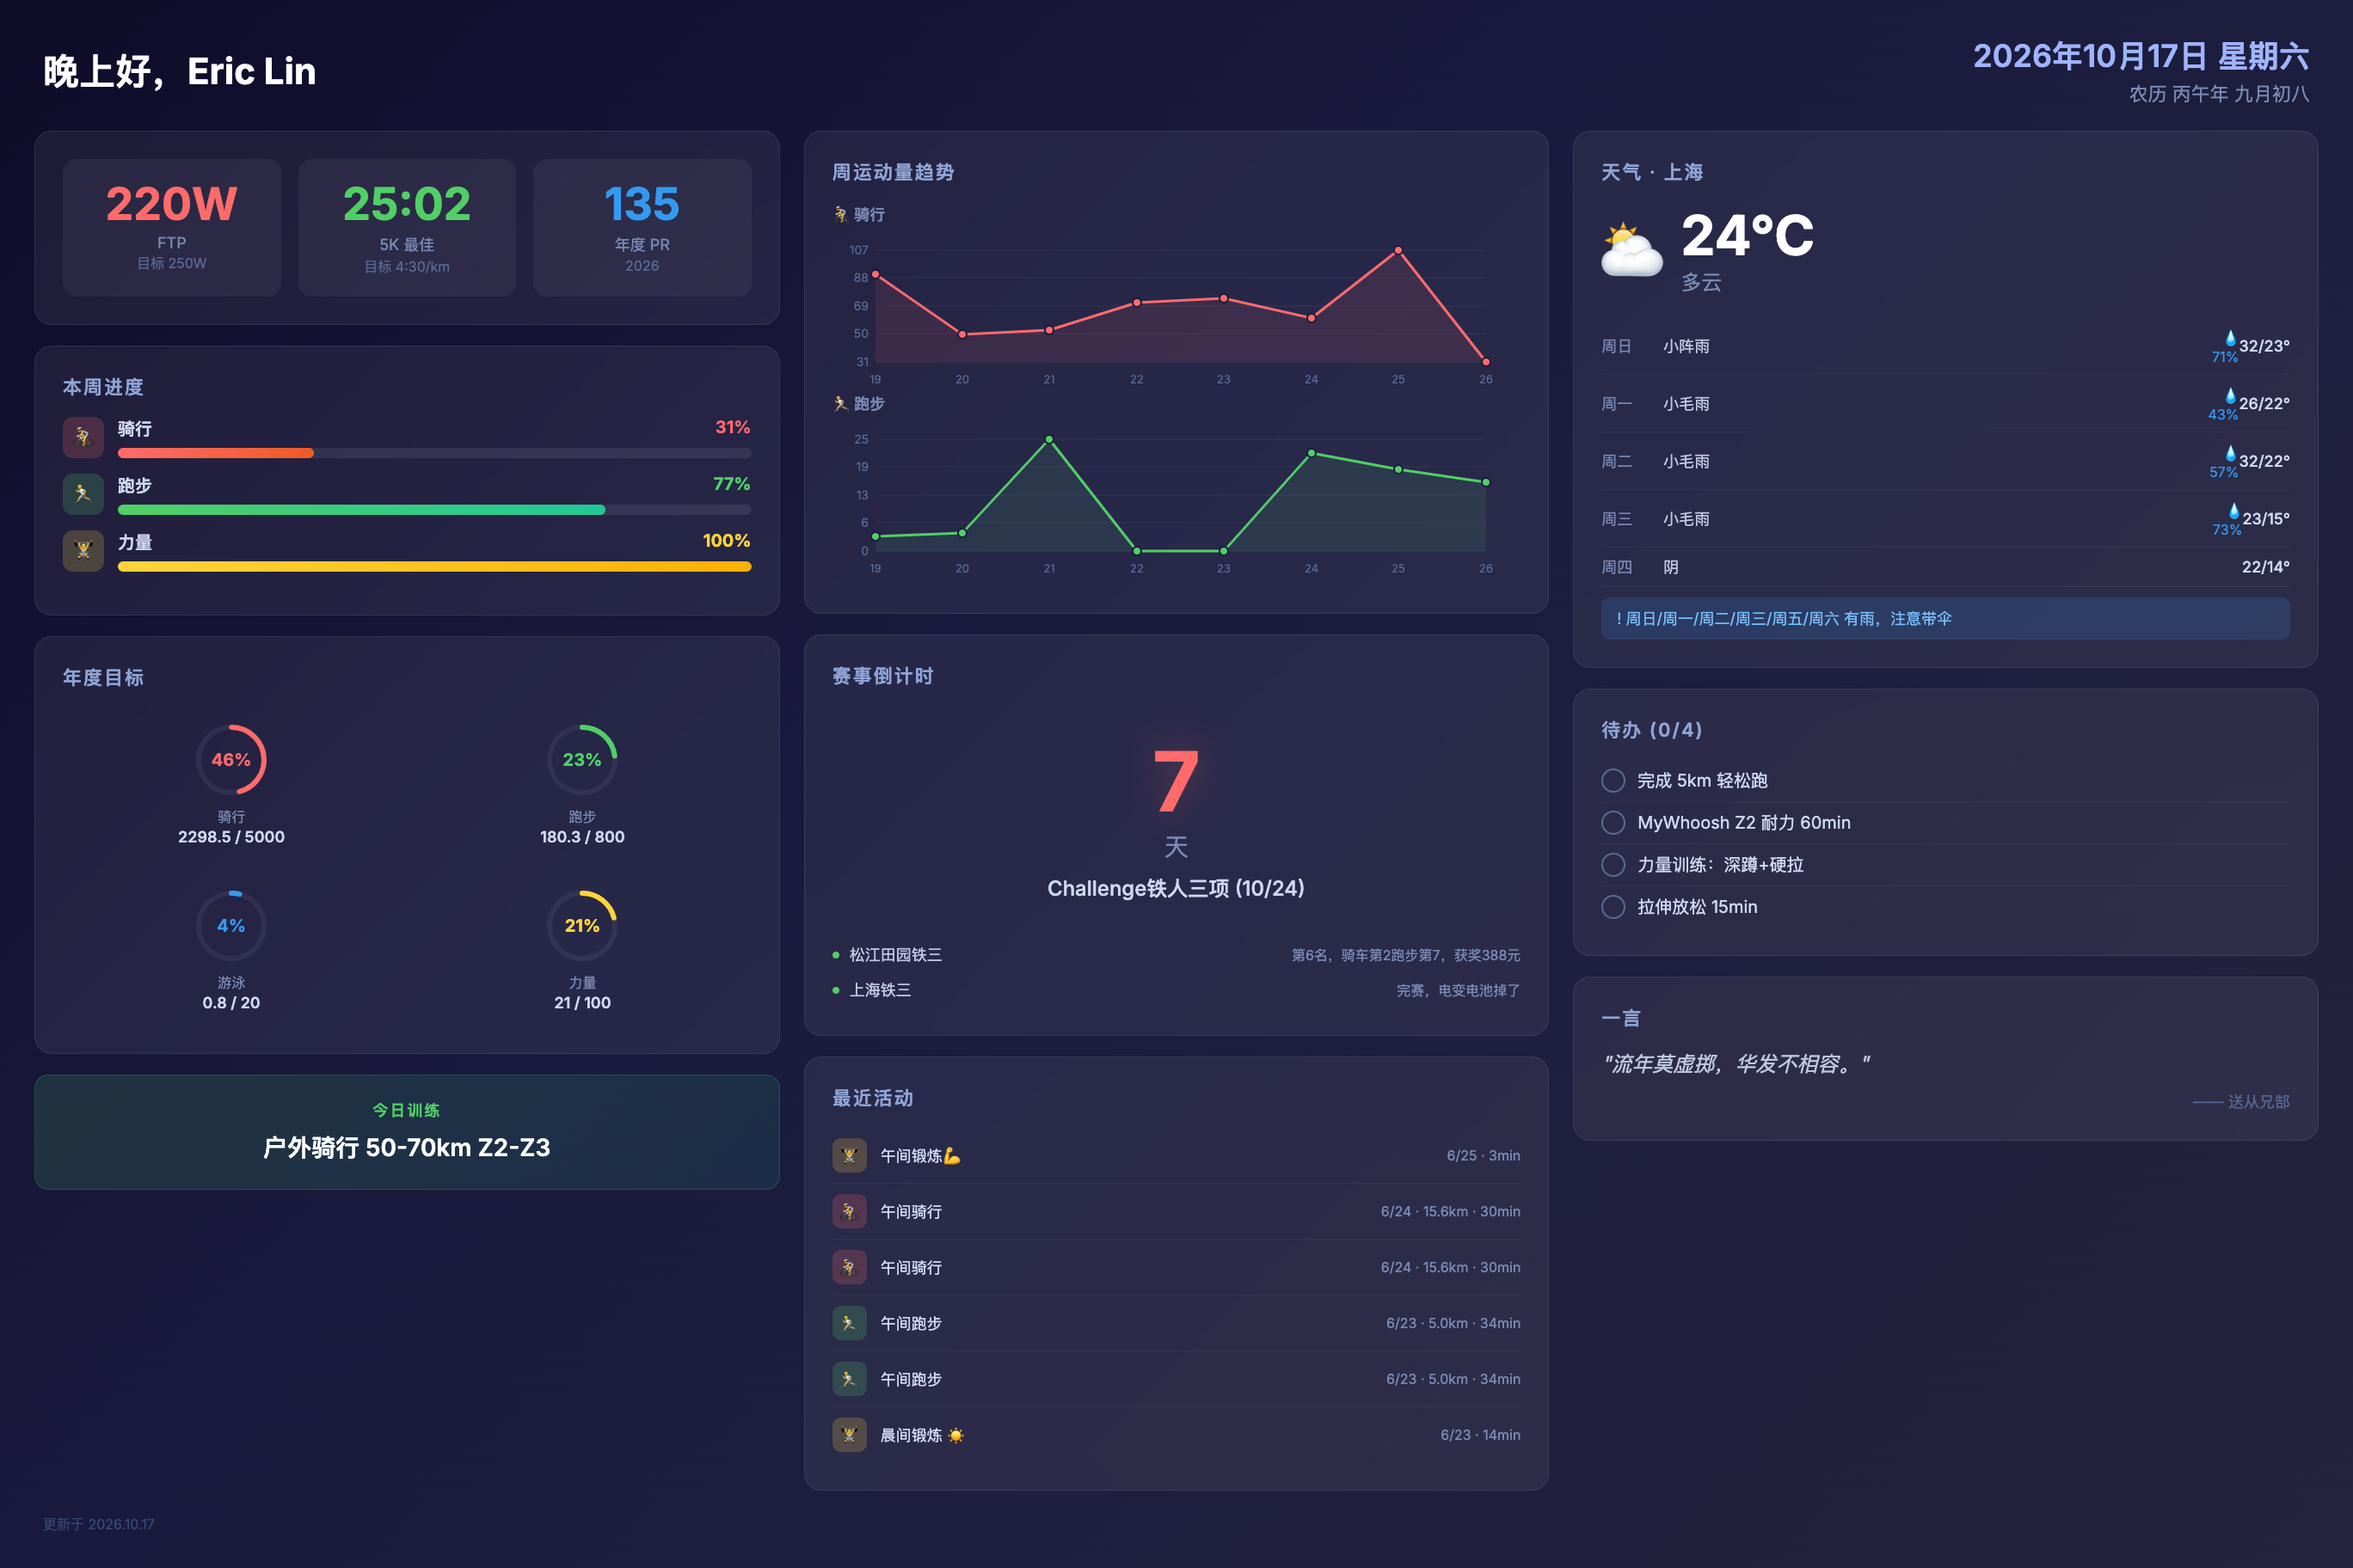
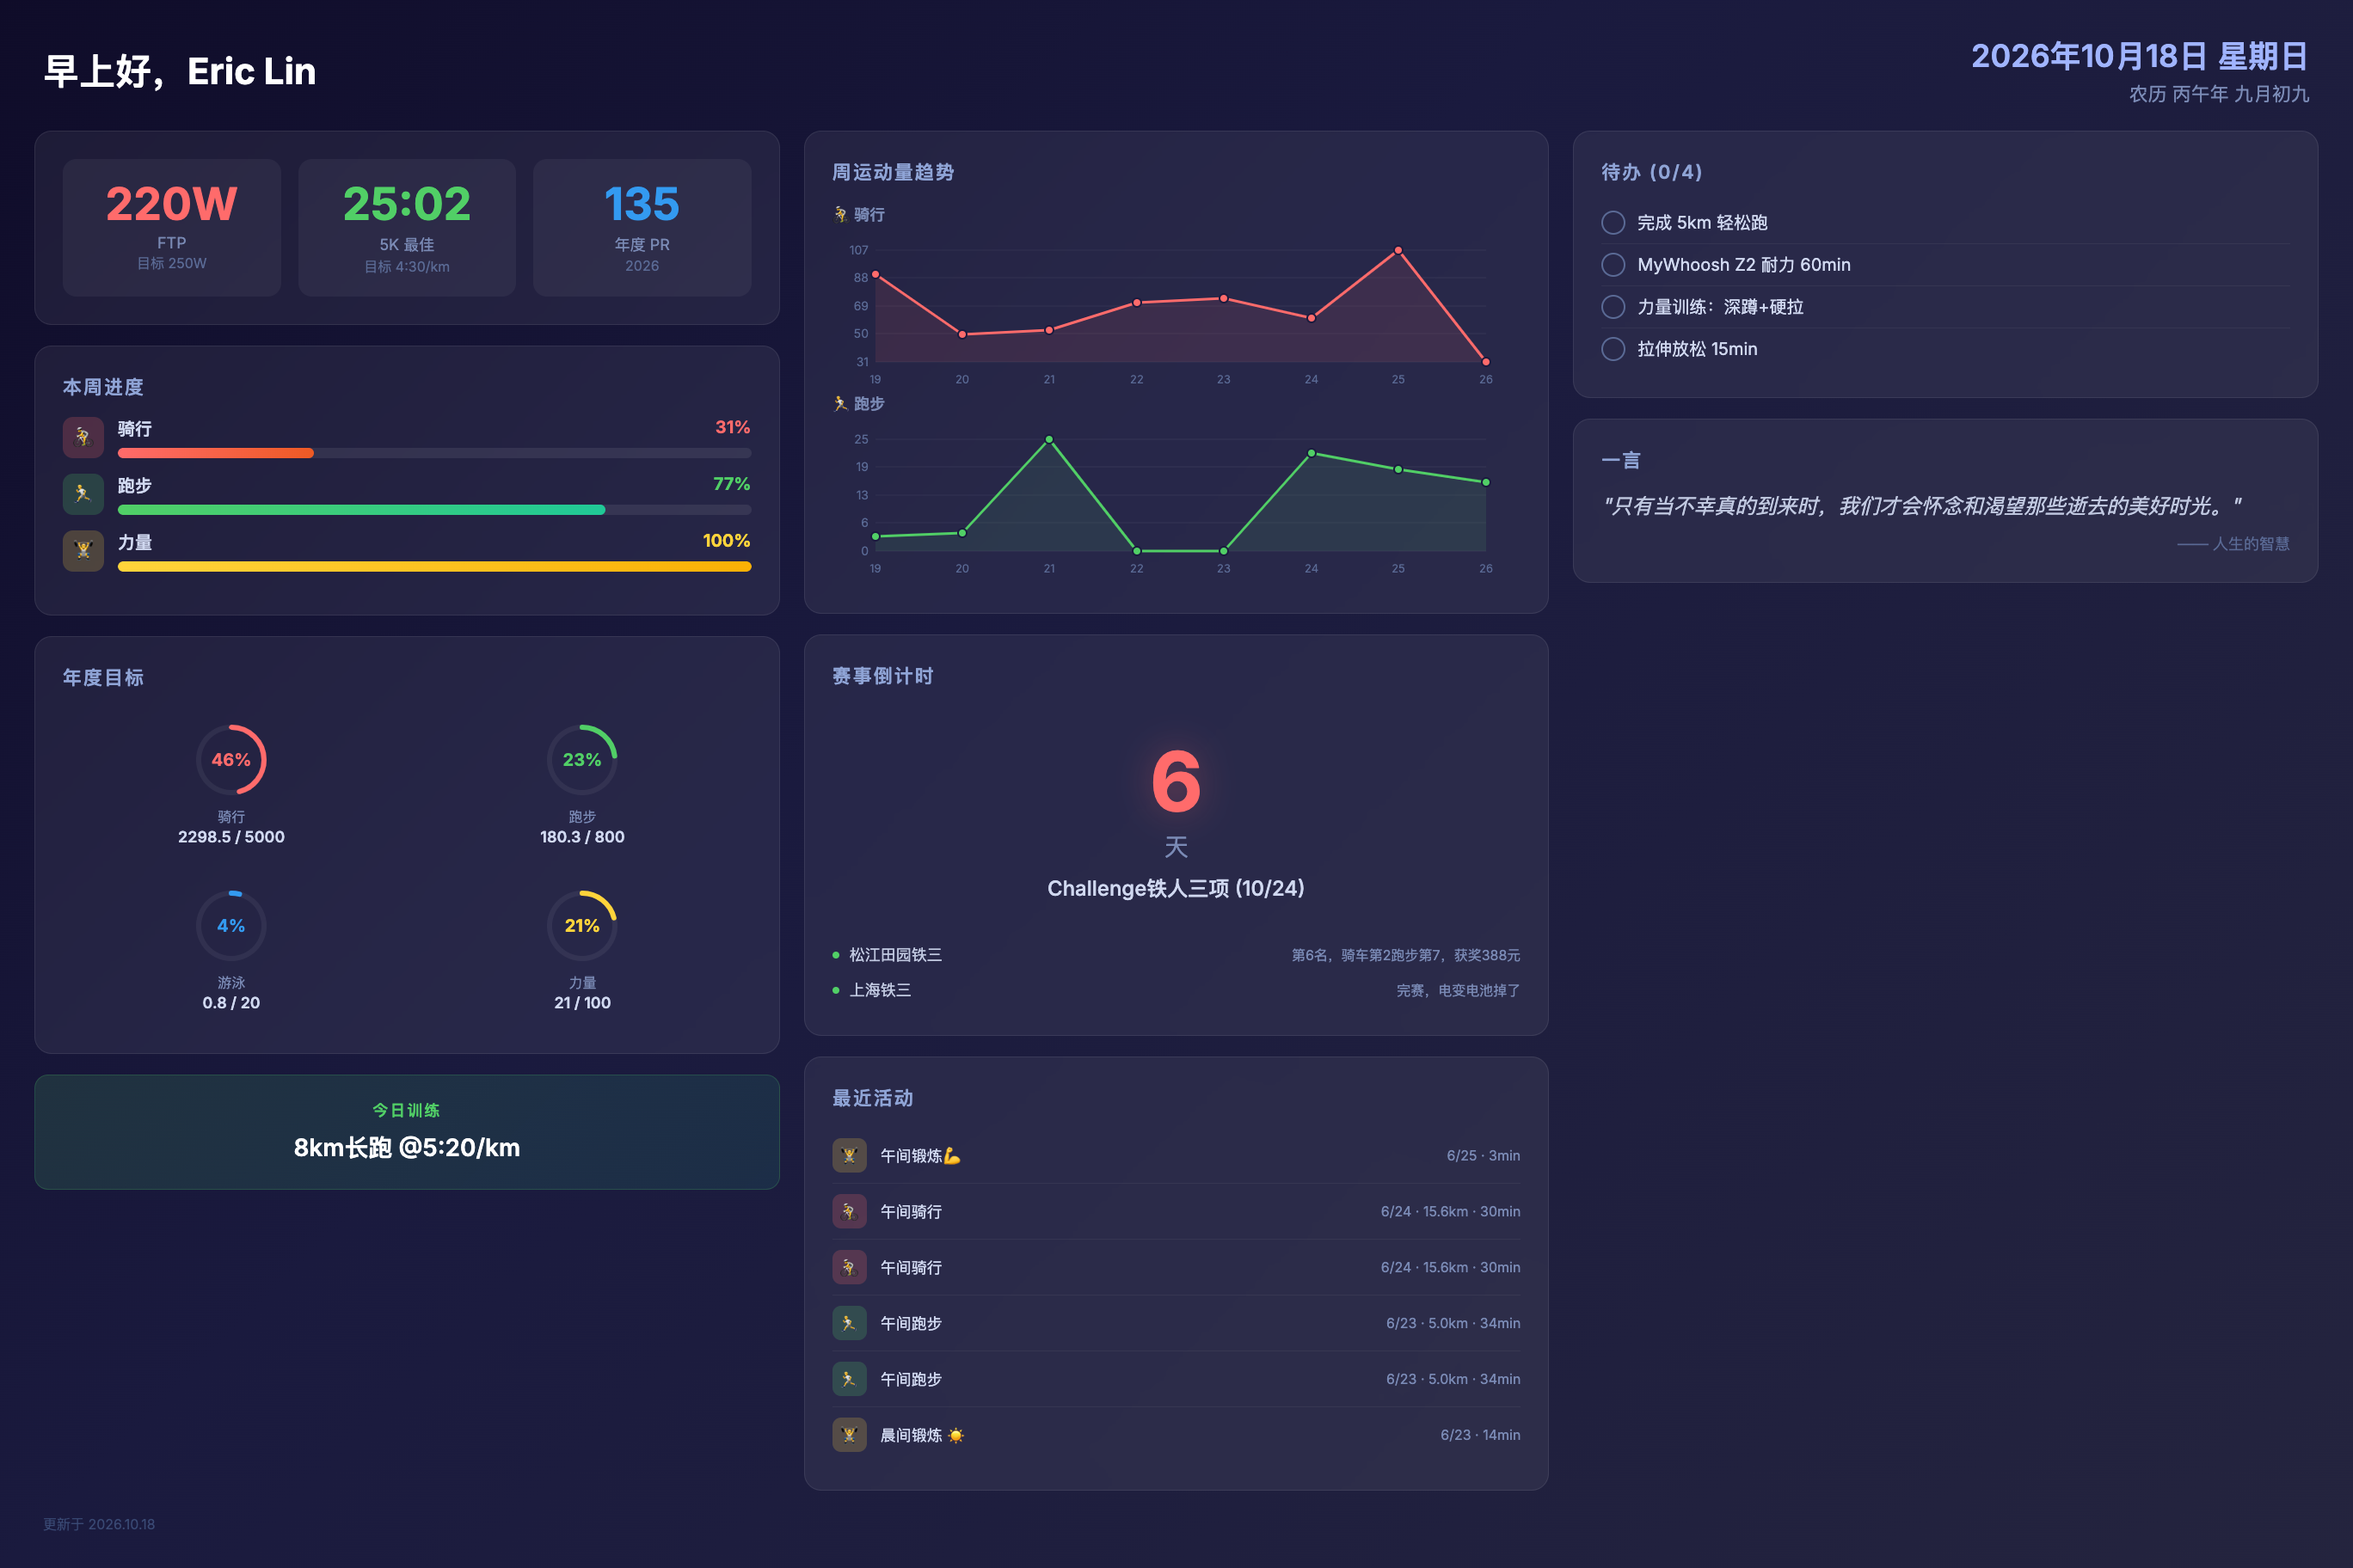
deploy: 2026-10-18-07:00

diff --git a/screensaver.html b/screensaver.html
@@ -490,13 +490,13 @@ html, body {
 <!-- ===== TOP BAR ===== -->
 <div class="top-bar">
   <div>
-    <div class="greeting">晚上好，Eric Lin</div>
+    <div class="greeting">早上好，Eric Lin</div>
     
   </div>
   <div class="date-info">
-    <div class="solar-date">2026年10月17日 星期六</div>
+    <div class="solar-date">2026年10月18日 星期日</div>
     
-    <div class="lunar-date">农历 丙午年 九月初八</div>
+    <div class="lunar-date">农历 丙午年 九月初九</div>
     
   </div>
 </div>
@@ -638,7 +638,7 @@ html, body {
   
   <div class="ai-today-card">
     <div class="ai-today-label">今日训练</div>
-    <div class="ai-today-text">户外骑行 50-70km Z2-Z3</div>
+    <div class="ai-today-text">8km长跑 @5:20/km</div>
   </div>
   
 
@@ -732,7 +732,7 @@ html, body {
   <div class="card">
     <div class="card-title">赛事倒计时</div>
     <div class="race-countdown">
-      <div class="countdown-number">7</div>
+      <div class="countdown-number">6</div>
       <div class="countdown-unit">天</div>
       <div class="countdown-name">Challenge铁人三项 (10/24)</div>
     </div>
@@ -805,58 +805,6 @@ html, body {
 
   <!-- Weather -->
   
-  <div class="card">
-    <div class="card-title">天气 · 上海</div>
-    <div class="weather-current">
-      <div class="weather-icon-big">⛅</div>
-      <div>
-        <div class="weather-temp-big">24°C</div>
-        <div class="weather-desc">多云</div>
-      </div>
-    </div>
-    
-    
-    <div class="forecast-row">
-      <div class="forecast-day">周日</div>
-      <div class="forecast-desc">小阵雨</div>
-      <div class="forecast-precip">💧71%</div>
-      <div class="forecast-range">32/23°</div>
-    </div>
-    
-    <div class="forecast-row">
-      <div class="forecast-day">周一</div>
-      <div class="forecast-desc">小毛雨</div>
-      <div class="forecast-precip">💧43%</div>
-      <div class="forecast-range">26/22°</div>
-    </div>
-    
-    <div class="forecast-row">
-      <div class="forecast-day">周二</div>
-      <div class="forecast-desc">小毛雨</div>
-      <div class="forecast-precip">💧57%</div>
-      <div class="forecast-range">32/22°</div>
-    </div>
-    
-    <div class="forecast-row">
-      <div class="forecast-day">周三</div>
-      <div class="forecast-desc">小毛雨</div>
-      <div class="forecast-precip">💧73%</div>
-      <div class="forecast-range">23/15°</div>
-    </div>
-    
-    <div class="forecast-row">
-      <div class="forecast-day">周四</div>
-      <div class="forecast-desc">阴</div>
-      <div class="forecast-precip"></div>
-      <div class="forecast-range">22/14°</div>
-    </div>
-    
-    
-    
-    <div class="rain-alert">! 周日/周一/周二/周三/周五/周六 有雨，注意带伞</div>
-    
-  </div>
-  
 
   <!-- Todos -->
   
@@ -902,9 +850,9 @@ html, body {
   
   <div class="card">
     <div class="card-title">一言</div>
-    <div class="quote-text">"流年莫虚掷，华发不相容。"</div>
+    <div class="quote-text">"只有当不幸真的到来时，我们才会怀念和渴望那些逝去的美好时光。"</div>
     
-    <div class="quote-from">—— 送从兄郜</div>
+    <div class="quote-from">—— 人生的智慧</div>
     
   </div>
   
@@ -913,7 +861,7 @@ html, body {
 
 <!-- ===== BOTTOM BAR ===== -->
 <div class="bottom-bar">
-  <div class="update-time">更新于 2026.10.17</div>
+  <div class="update-time">更新于 2026.10.18</div>
 </div>
 
 </div>

diff --git a/life.html b/life.html
@@ -89,7 +89,7 @@ html, body {
 <table class="header-table">
   <tr>
     <td class="header-left">生活</td>
-    <td class="header-right">2026.10.17</td>
+    <td class="header-right">2026.10.18</td>
   </tr>
 </table>
 
@@ -133,84 +133,16 @@ html, body {
 
 <!-- ===== 天气 ===== -->
 
-<div class="box">
-  <p class="section-title">☀ 天气 · 上海</p>
-  <table class="weather-table">
-    <tr>
-      <td class="weather-icon">~</td>
-      <td class="weather-temp">24°C</td>
-      <td class="weather-desc">多云</td>
-    </tr>
-  </table>
-  
-  <table class="forecast-table">
-    
-    <tr>
-      <td class="forecast-day">周日</td>
-      <td class="forecast-icon">.</td>
-      <td>小阵雨</td>
-      <td class="forecast-range">32/23°C</td>
-    </tr>
-    
-    <tr>
-      <td class="forecast-day">周一</td>
-      <td class="forecast-icon">.</td>
-      <td>小毛雨</td>
-      <td class="forecast-range">26/22°C</td>
-    </tr>
-    
-    <tr>
-      <td class="forecast-day">周二</td>
-      <td class="forecast-icon">.</td>
-      <td>小毛雨</td>
-      <td class="forecast-range">32/22°C</td>
-    </tr>
-    
-    <tr>
-      <td class="forecast-day">周三</td>
-      <td class="forecast-icon">.</td>
-      <td>小毛雨</td>
-      <td class="forecast-range">23/15°C</td>
-    </tr>
-    
-    <tr>
-      <td class="forecast-day">周四</td>
-      <td class="forecast-icon">~</td>
-      <td>阴</td>
-      <td class="forecast-range">22/14°C</td>
-    </tr>
-    
-    <tr>
-      <td class="forecast-day">周五</td>
-      <td class="forecast-icon">!</td>
-      <td>雷暴</td>
-      <td class="forecast-range">25/18°C</td>
-    </tr>
-    
-    <tr>
-      <td class="forecast-day">周六</td>
-      <td class="forecast-icon">.</td>
-      <td>小阵雨</td>
-      <td class="forecast-range">24/20°C</td>
-    </tr>
-    
-  </table>
-  
-  
-  <div class="rain-alert">! 周日/周一/周二/周三/周五/周六 有雨，注意带伞</div>
-  
-</div>
-
 
 <!-- ===== 今日 ===== -->
 <div class="box">
   <p class="section-title">📅 今日</p>
   <table class="data-table">
     <tr>
-      <td>2026年10月17日 星期五</td>
+      <td>2026年10月18日 星期六</td>
     </tr>
     <tr>
-      <td>农历丙午年 九月初八</td>
+      <td>农历丙午年 九月初九</td>
     </tr>
   </table>
 </div>
@@ -261,9 +193,9 @@ html, body {
 
 <div class="box">
   <p class="section-title">💬 一言</p>
-  <p class="quote-text">流年莫虚掷，华发不相容。</p>
+  <p class="quote-text">只有当不幸真的到来时，我们才会怀念和渴望那些逝去的美好时光。</p>
   
-  <p class="quote-from">—— 送从兄郜</p>
+  <p class="quote-from">—— 人生的智慧</p>
   
 </div>
 

diff --git a/index.html b/index.html
@@ -74,7 +74,7 @@ html, body {
 <table class="header-table">
   <tr>
     <td class="header-left">Eric Lin · 运动</td>
-    <td class="header-right">2026.10.17</td>
+    <td class="header-right">2026.10.18</td>
   </tr>
 </table>
 
@@ -225,17 +225,10 @@ html, body {
 <div class="ai-plan">
   <div class="ai-plan-title">AI 训练建议</div>
   
-  <div class="ai-today">今日: 户外骑行 60km Z2-Z3</div>
+  <div class="ai-today">今日: 长跑 8km @5:20/km</div>
   
   
   <table class="ai-weekly">
-    
-    <tr>
-      <td class="day">周六</td>
-      
-      <td>户外骑行 60km Z2-Z3</td>
-      
-    </tr>
     
     <tr>
       <td class="day">周日</td>
@@ -279,6 +272,13 @@ html, body {
       
     </tr>
     
+    <tr>
+      <td class="day">周六</td>
+      
+      <td>户外骑行 60km Z2-Z3</td>
+      
+    </tr>
+    
   </table>
   
   
@@ -293,7 +293,7 @@ html, body {
   <p class="section-title">即将到来</p>
   
   <div class="countdown-box">
-    <div class="countdown-days">7</div>
+    <div class="countdown-days">6</div>
     <div class="countdown-label">距 Challenge铁人三项 (10/24)</div>
   </div>
   

diff --git a/work.html b/work.html
@@ -89,7 +89,7 @@ html, body {
 <table class="header-table">
   <tr>
     <td class="header-left">工作</td>
-    <td class="header-right">2026.10.17</td>
+    <td class="header-right">2026.10.18</td>
   </tr>
 </table>
 
